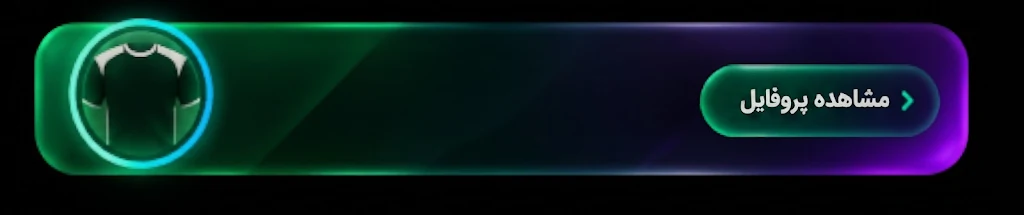
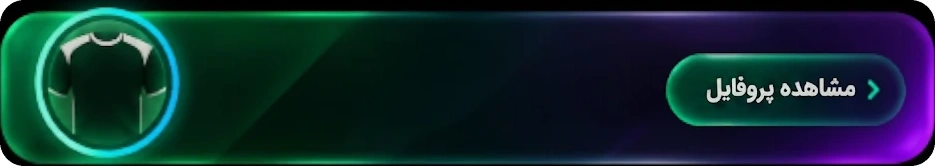
fix dashboard crop cards remove black background and align left

diff --git a/apps/web/src/features/dashboard/DashboardView.tsx b/apps/web/src/features/dashboard/DashboardView.tsx
@@ -69,11 +69,15 @@ export const DashboardView: React.FC = () => {
     const imagesToLoad = [
       '/firsttouchcrop.png',
       '/glossy-profile-icon.png',
-      '/dashboard-banner-profile.webp',
-      '/dashboard-tactics-nutrition.webp',
-      '/dashboard-training-quiz-progress.webp',
-      '/dashboard-messages-health.webp',
-      '/dashboard-student-report.webp',
+      '/dashboard-cards/card_banner_profile.webp',
+      '/dashboard-cards/card_nutrition.webp',
+      '/dashboard-cards/card_tactics.webp',
+      '/dashboard-cards/card_progress.webp',
+      '/dashboard-cards/card_quiz.webp',
+      '/dashboard-cards/card_training.webp',
+      '/dashboard-cards/card_health.webp',
+      '/dashboard-cards/card_messages.webp',
+      '/dashboard-cards/card_student_report.webp',
     ];
 
     let loadedCount = 0;
@@ -280,10 +284,10 @@ export const DashboardView: React.FC = () => {
 
       {/* =========================================================================
           1. ITEM 1: PROFILE BANNER
-          - تصویر 64bad590... زیر topappbar
-          - روی تصویر کنار دکمش سن، نام و پست هافبک دفاعی
+          - تصویر کراپشده card_banner_profile.webp بدون حاشیه مشکی
+          - موقعیت متن نام و مشخصات بازیکن به سمت چپتر منتقل شده تا از دکمه فاصله بگیرد
           ========================================================================= */}
-      <div className="w-full mb-3 sm:mb-3.5">
+      <div className="w-full mb-2 sm:mb-2.5">
         <motion.div
           whileHover={{ scale: 1.01 }}
           whileTap={{ scale: 0.98 }}
@@ -291,21 +295,21 @@ export const DashboardView: React.FC = () => {
             triggerHaptic();
             navigate('/settings');
           }}
-          className="relative w-full rounded-2xl sm:rounded-3xl overflow-hidden cursor-pointer select-none drop-shadow-[0_4px_16px_rgba(0,0,0,0.4)]"
+          className="relative w-full rounded-2xl sm:rounded-3xl overflow-hidden cursor-pointer select-none drop-shadow-[0_4px_16px_rgba(0,0,0,0.3)]"
           title="مشاهده پروفایل کاربری"
         >
           <img
-            src="/dashboard-banner-profile.webp"
+            src="/dashboard-cards/card_banner_profile.webp"
             alt="پروفایل بازیکن"
             className="w-full h-auto block select-none"
             loading="eager"
             decoding="sync"
           />
 
-          {/* User details overlay positioned right next to the button */}
+          {/* User details overlay: shifted comfortably to the left */}
           <div
             dir="rtl"
-            className="absolute inset-y-0 right-[32%] sm:right-[31%] left-[22%] sm:left-[20%] flex flex-col justify-center items-start text-right pointer-events-none select-none z-10"
+            className="absolute inset-y-0 right-[38%] sm:right-[40%] left-[10%] flex flex-col justify-center items-start text-right pointer-events-none select-none z-10"
           >
             <div className="truncate max-w-full">
               <span className="text-xs sm:text-sm md:text-base font-black text-white tracking-tight drop-shadow-[0_2px_8px_rgba(0,0,0,0.95)]">
@@ -323,142 +327,181 @@ export const DashboardView: React.FC = () => {
 
       {/* =========================================================================
           2. ITEM 2: TACTICS & NUTRITION ROW
-          - تصویر 5c237fbd...
-          - سمت چپ: تخته تاکتیک -> /tactics
-          - سمت راست: برنامه غذایی -> /nutrition
+          - تصاویر کراپشده اختصاصی و شفاف (بدون حاشیه و بکگراند مشکی)
+          - راست: برنامه غذایی -> /nutrition
+          - چپ: تخته تاکتیک -> /tactics
+          - فاصله مینیمال و فشرده (gap-2)
           ========================================================================= */}
-      <div className="w-full mb-3 sm:mb-3.5">
-        <div className="relative w-full rounded-2xl sm:rounded-3xl overflow-hidden select-none drop-shadow-[0_4px_16px_rgba(0,0,0,0.4)]">
-          <img
-            src="/dashboard-tactics-nutrition.webp"
-            alt="تخته تاکتیک و برنامه غذایی"
-            className="w-full h-auto block select-none"
-            loading="eager"
-            decoding="sync"
-          />
-
-          {/* Tactics Hotspot (Left 50% in image) */}
+      <div className="w-full mb-2 sm:mb-2.5">
+        <div dir="rtl" className="grid grid-cols-[1fr_1.16fr] gap-2 sm:gap-2.5 items-stretch">
+          {/* Nutrition (Right in RTL) */}
           <motion.div
-            whileTap={{ scale: 0.98 }}
-            onClick={() => {
-              triggerHaptic();
-              navigate('/tactics');
-            }}
-            className="absolute inset-y-0 left-0 w-1/2 cursor-pointer transition-all duration-200 hover:bg-white/[0.04] active:bg-white/[0.08]"
-            title="ورود به تخته تاکتیک"
-          />
-
-          {/* Nutrition Hotspot (Right 50% in image) */}
-          <motion.div
-            whileTap={{ scale: 0.98 }}
+            whileHover={{ scale: 1.02 }}
+            whileTap={{ scale: 0.97 }}
             onClick={() => {
               triggerHaptic();
               navigate('/nutrition');
             }}
-            className="absolute inset-y-0 right-0 w-1/2 cursor-pointer transition-all duration-200 hover:bg-white/[0.04] active:bg-white/[0.08]"
+            className="relative w-full rounded-2xl sm:rounded-3xl overflow-hidden cursor-pointer select-none drop-shadow-[0_4px_16px_rgba(0,0,0,0.3)] transition-shadow hover:shadow-emerald-500/20"
             title="مشاهده برنامه غذایی"
-          />
+          >
+            <img
+              src="/dashboard-cards/card_nutrition.webp"
+              alt="برنامه غذایی"
+              className="w-full h-full object-cover block select-none"
+              loading="eager"
+              decoding="sync"
+            />
+          </motion.div>
+
+          {/* Tactics (Left in RTL) */}
+          <motion.div
+            whileHover={{ scale: 1.02 }}
+            whileTap={{ scale: 0.97 }}
+            onClick={() => {
+              triggerHaptic();
+              navigate('/tactics');
+            }}
+            className="relative w-full rounded-2xl sm:rounded-3xl overflow-hidden cursor-pointer select-none drop-shadow-[0_4px_16px_rgba(0,0,0,0.3)] transition-shadow hover:shadow-emerald-500/20"
+            title="ورود به تخته تاکتیک"
+          >
+            <img
+              src="/dashboard-cards/card_tactics.webp"
+              alt="تخته تاکتیک"
+              className="w-full h-full object-cover block select-none"
+              loading="eager"
+              decoding="sync"
+            />
+          </motion.div>
         </div>
       </div>
 
       {/* =========================================================================
           3. ITEM 3: TRAINING, QUIZ & PROGRESS ROW
-          - تصویر 7a243db5...
-          - چپ: تمرینات و برنامهها -> /practice
-          - وسط: بازی کوییز -> /quiz
+          - تصاویر کراپشده اختصاصی و شفاف (بدون حاشیه مشکی)
           - راست: گزارش پیشرفت -> باز شدن مودال تحلیل پیشرفت
+          - وسط: بازی کوییز -> /quiz
+          - چپ: تمرینات و برنامهها -> /practice
           ========================================================================= */}
-      <div className="w-full mb-3 sm:mb-3.5">
-        <div className="relative w-full rounded-2xl sm:rounded-3xl overflow-hidden select-none drop-shadow-[0_4px_16px_rgba(0,0,0,0.4)]">
-          <img
-            src="/dashboard-training-quiz-progress.webp"
-            alt="تمرینات، بازی کوییز و گزارش پیشرفت"
-            className="w-full h-auto block select-none"
-            loading="eager"
-            decoding="sync"
-          />
-
-          {/* Training Hotspot (Left 33.3% in image) */}
+      <div className="w-full mb-2 sm:mb-2.5">
+        <div dir="rtl" className="grid grid-cols-3 gap-2 sm:gap-2.5 items-stretch">
+          {/* Progress (Right in RTL) */}
           <motion.div
-            whileTap={{ scale: 0.98 }}
-            onClick={() => {
-              triggerHaptic();
-              navigate('/practice');
-            }}
-            className="absolute inset-y-0 left-0 w-[33.33%] cursor-pointer transition-all duration-200 hover:bg-white/[0.04] active:bg-white/[0.08]"
-            title="مشاهده برنامه تمرینات"
-          />
-
-          {/* Quiz Hotspot (Middle 33.3% in image) */}
-          <motion.div
-            whileTap={{ scale: 0.98 }}
-            onClick={() => {
-              triggerHaptic();
-              navigate('/quiz');
-            }}
-            className="absolute inset-y-0 left-[33.33%] w-[33.34%] cursor-pointer transition-all duration-200 hover:bg-white/[0.04] active:bg-white/[0.08]"
-            title="شروع بازی کوییز"
-          />
-
-          {/* Progress Hotspot (Right 33.3% in image) */}
-          <motion.div
-            whileTap={{ scale: 0.98 }}
+            whileHover={{ scale: 1.02 }}
+            whileTap={{ scale: 0.97 }}
             onClick={() => {
               triggerHaptic();
               setIsProgressModalOpen(true);
             }}
-            className="absolute inset-y-0 right-0 w-[33.33%] cursor-pointer transition-all duration-200 hover:bg-white/[0.04] active:bg-white/[0.08]"
+            className="relative w-full rounded-2xl sm:rounded-3xl overflow-hidden cursor-pointer select-none drop-shadow-[0_4px_16px_rgba(0,0,0,0.3)] transition-shadow hover:shadow-emerald-500/20"
             title="مشاهده گزارش پیشرفت"
-          />
+          >
+            <img
+              src="/dashboard-cards/card_progress.webp"
+              alt="گزارش پیشرفت"
+              className="w-full h-full object-cover block select-none"
+              loading="eager"
+              decoding="sync"
+            />
+          </motion.div>
+
+          {/* Quiz (Middle) */}
+          <motion.div
+            whileHover={{ scale: 1.02 }}
+            whileTap={{ scale: 0.97 }}
+            onClick={() => {
+              triggerHaptic();
+              navigate('/quiz');
+            }}
+            className="relative w-full rounded-2xl sm:rounded-3xl overflow-hidden cursor-pointer select-none drop-shadow-[0_4px_16px_rgba(0,0,0,0.3)] transition-shadow hover:shadow-emerald-500/20"
+            title="شروع بازی کوییز"
+          >
+            <img
+              src="/dashboard-cards/card_quiz.webp"
+              alt="بازی کوییز"
+              className="w-full h-full object-cover block select-none"
+              loading="eager"
+              decoding="sync"
+            />
+          </motion.div>
+
+          {/* Training (Left in RTL) */}
+          <motion.div
+            whileHover={{ scale: 1.02 }}
+            whileTap={{ scale: 0.97 }}
+            onClick={() => {
+              triggerHaptic();
+              navigate('/practice');
+            }}
+            className="relative w-full rounded-2xl sm:rounded-3xl overflow-hidden cursor-pointer select-none drop-shadow-[0_4px_16px_rgba(0,0,0,0.3)] transition-shadow hover:shadow-emerald-500/20"
+            title="مشاهده برنامه تمرینات"
+          >
+            <img
+              src="/dashboard-cards/card_training.webp"
+              alt="تمرینات و برنامهها"
+              className="w-full h-full object-cover block select-none"
+              loading="eager"
+              decoding="sync"
+            />
+          </motion.div>
         </div>
       </div>
 
       {/* =========================================================================
           4. ITEM 4: MESSAGES & HEALTH STATUS ROW
-          - تصویر 0b98f1f0...
-          - چپ: پیامها و اطلاعیهها -> باز شدن مودال پیامها
-          - راست: وضعیت خواب و سلامت -> باز شدن مودال وضعیت خواب و هیدراتاسیون
+          - تصاویر کراپشده اختصاصی و شفاف (بدون حاشیه مشکی)
+          - راست: وضعیت خواب و سلامت -> باز شدن مودال
+          - چپ: پیامها و اطلاعیهها -> باز شدن مودال
           ========================================================================= */}
-      <div className="w-full mb-3 sm:mb-3.5">
-        <div className="relative w-full rounded-2xl sm:rounded-3xl overflow-hidden select-none drop-shadow-[0_4px_16px_rgba(0,0,0,0.4)]">
-          <img
-            src="/dashboard-messages-health.webp"
-            alt="پیامها و وضعیت خواب و سلامت"
-            className="w-full h-auto block select-none"
-            loading="eager"
-            decoding="sync"
-          />
-
-          {/* Messages Hotspot (Left 50% in image) */}
+      <div className="w-full mb-2 sm:mb-2.5">
+        <div dir="rtl" className="grid grid-cols-2 gap-2 sm:gap-2.5 items-stretch">
+          {/* Health & Sleep (Right in RTL) */}
           <motion.div
-            whileTap={{ scale: 0.98 }}
-            onClick={() => {
-              triggerHaptic();
-              setIsNotifOpen(true);
-            }}
-            className="absolute inset-y-0 left-0 w-1/2 cursor-pointer transition-all duration-200 hover:bg-white/[0.04] active:bg-white/[0.08]"
-            title="مشاهده پیامها و اطلاعیهها"
-          />
-
-          {/* Health & Sleep Hotspot (Right 50% in image) */}
-          <motion.div
-            whileTap={{ scale: 0.98 }}
+            whileHover={{ scale: 1.02 }}
+            whileTap={{ scale: 0.97 }}
             onClick={() => {
               triggerHaptic();
               setIsHealthModalOpen(true);
             }}
-            className="absolute inset-y-0 right-0 w-1/2 cursor-pointer transition-all duration-200 hover:bg-white/[0.04] active:bg-white/[0.08]"
+            className="relative w-full rounded-2xl sm:rounded-3xl overflow-hidden cursor-pointer select-none drop-shadow-[0_4px_16px_rgba(0,0,0,0.3)] transition-shadow hover:shadow-emerald-500/20"
             title="مشاهده جزئیات خواب و سلامت"
-          />
+          >
+            <img
+              src="/dashboard-cards/card_health.webp"
+              alt="وضعیت خواب و سلامت"
+              className="w-full h-full object-cover block select-none"
+              loading="eager"
+              decoding="sync"
+            />
+          </motion.div>
+
+          {/* Messages (Left in RTL) */}
+          <motion.div
+            whileHover={{ scale: 1.02 }}
+            whileTap={{ scale: 0.97 }}
+            onClick={() => {
+              triggerHaptic();
+              setIsNotifOpen(true);
+            }}
+            className="relative w-full rounded-2xl sm:rounded-3xl overflow-hidden cursor-pointer select-none drop-shadow-[0_4px_16px_rgba(0,0,0,0.3)] transition-shadow hover:shadow-emerald-500/20"
+            title="مشاهده پیامها و اطلاعیهها"
+          >
+            <img
+              src="/dashboard-cards/card_messages.webp"
+              alt="پیامها و اطلاعیهها"
+              className="w-full h-full object-cover block select-none"
+              loading="eager"
+              decoding="sync"
+            />
+          </motion.div>
         </div>
       </div>
 
       {/* =========================================================================
           5. ITEM 5: STUDENT PERFORMANCE REPORT BANNER
-          - تصویر a301f3fb...
-          - گزارش عملکرد دانشآموز (مشاهده گزارش ماهانه)
+          - تصویر کراپشده بدون حاشیه مشکی
           ========================================================================= */}
-      <div className="w-full mb-4">
+      <div className="w-full mb-3">
         <motion.div
           whileHover={{ scale: 1.01 }}
           whileTap={{ scale: 0.98 }}
@@ -466,11 +509,11 @@ export const DashboardView: React.FC = () => {
             triggerHaptic();
             setIsStudentReportModalOpen(true);
           }}
-          className="relative w-full rounded-2xl sm:rounded-3xl overflow-hidden cursor-pointer select-none drop-shadow-[0_4px_16px_rgba(0,0,0,0.4)]"
+          className="relative w-full rounded-2xl sm:rounded-3xl overflow-hidden cursor-pointer select-none drop-shadow-[0_4px_16px_rgba(0,0,0,0.3)]"
           title="مشاهده گزارش عملکرد دانشآموز"
         >
           <img
-            src="/dashboard-student-report.webp"
+            src="/dashboard-cards/card_student_report.webp"
             alt="گزارش عملکرد ماهانه دانشآموز"
             className="w-full h-auto block select-none"
             loading="eager"
